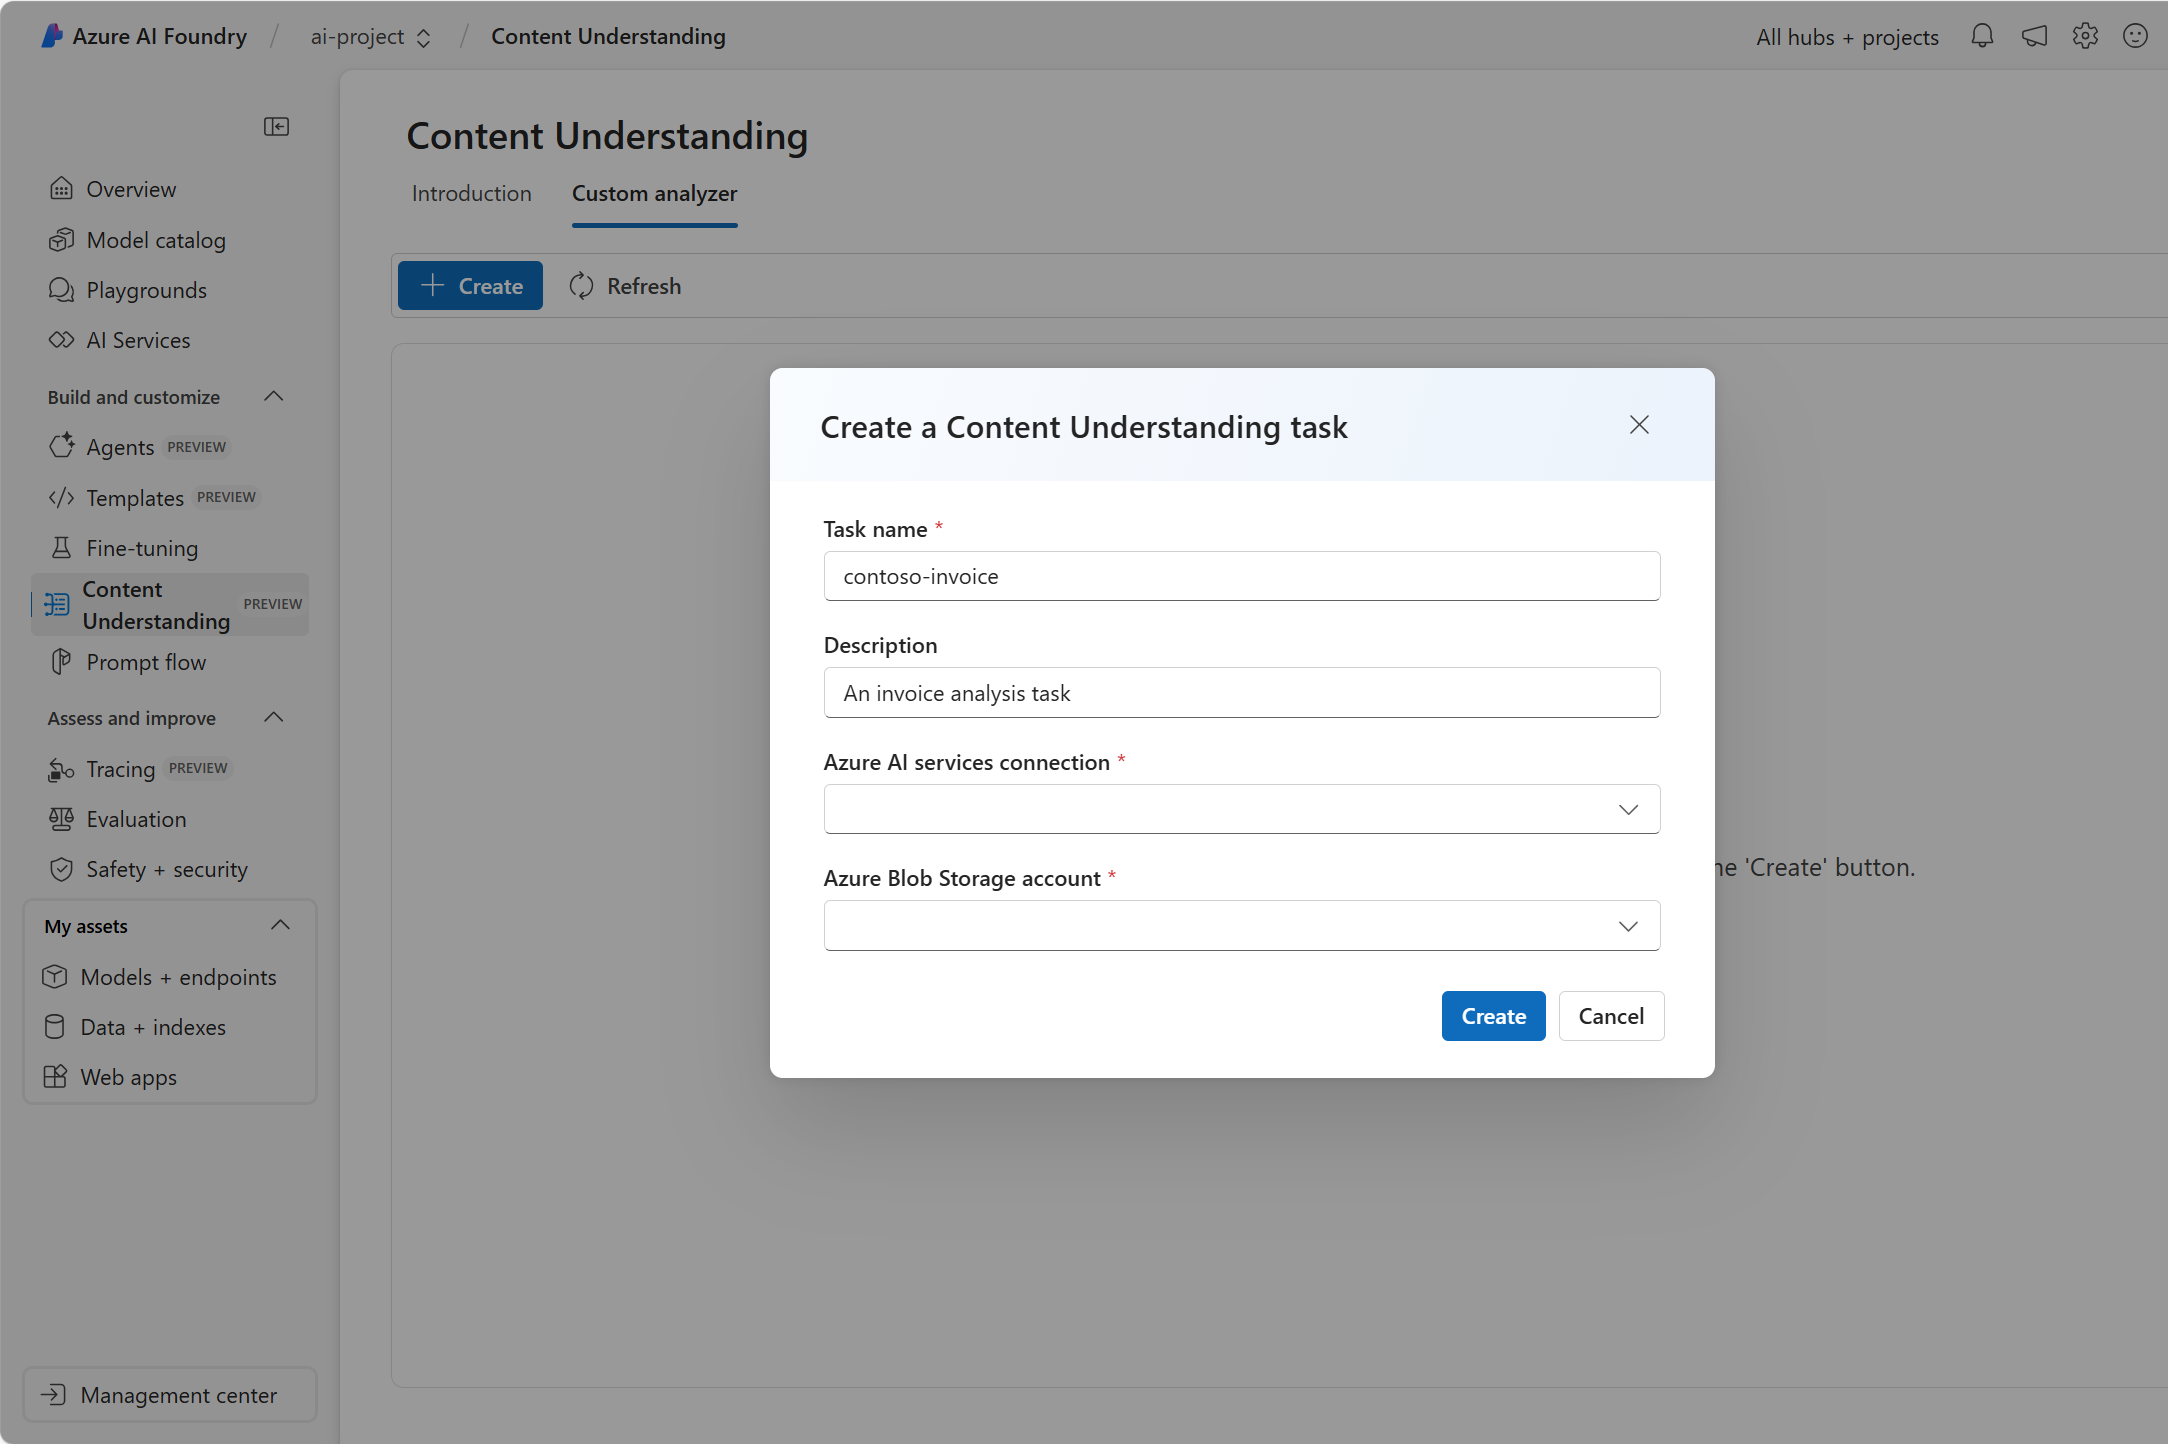
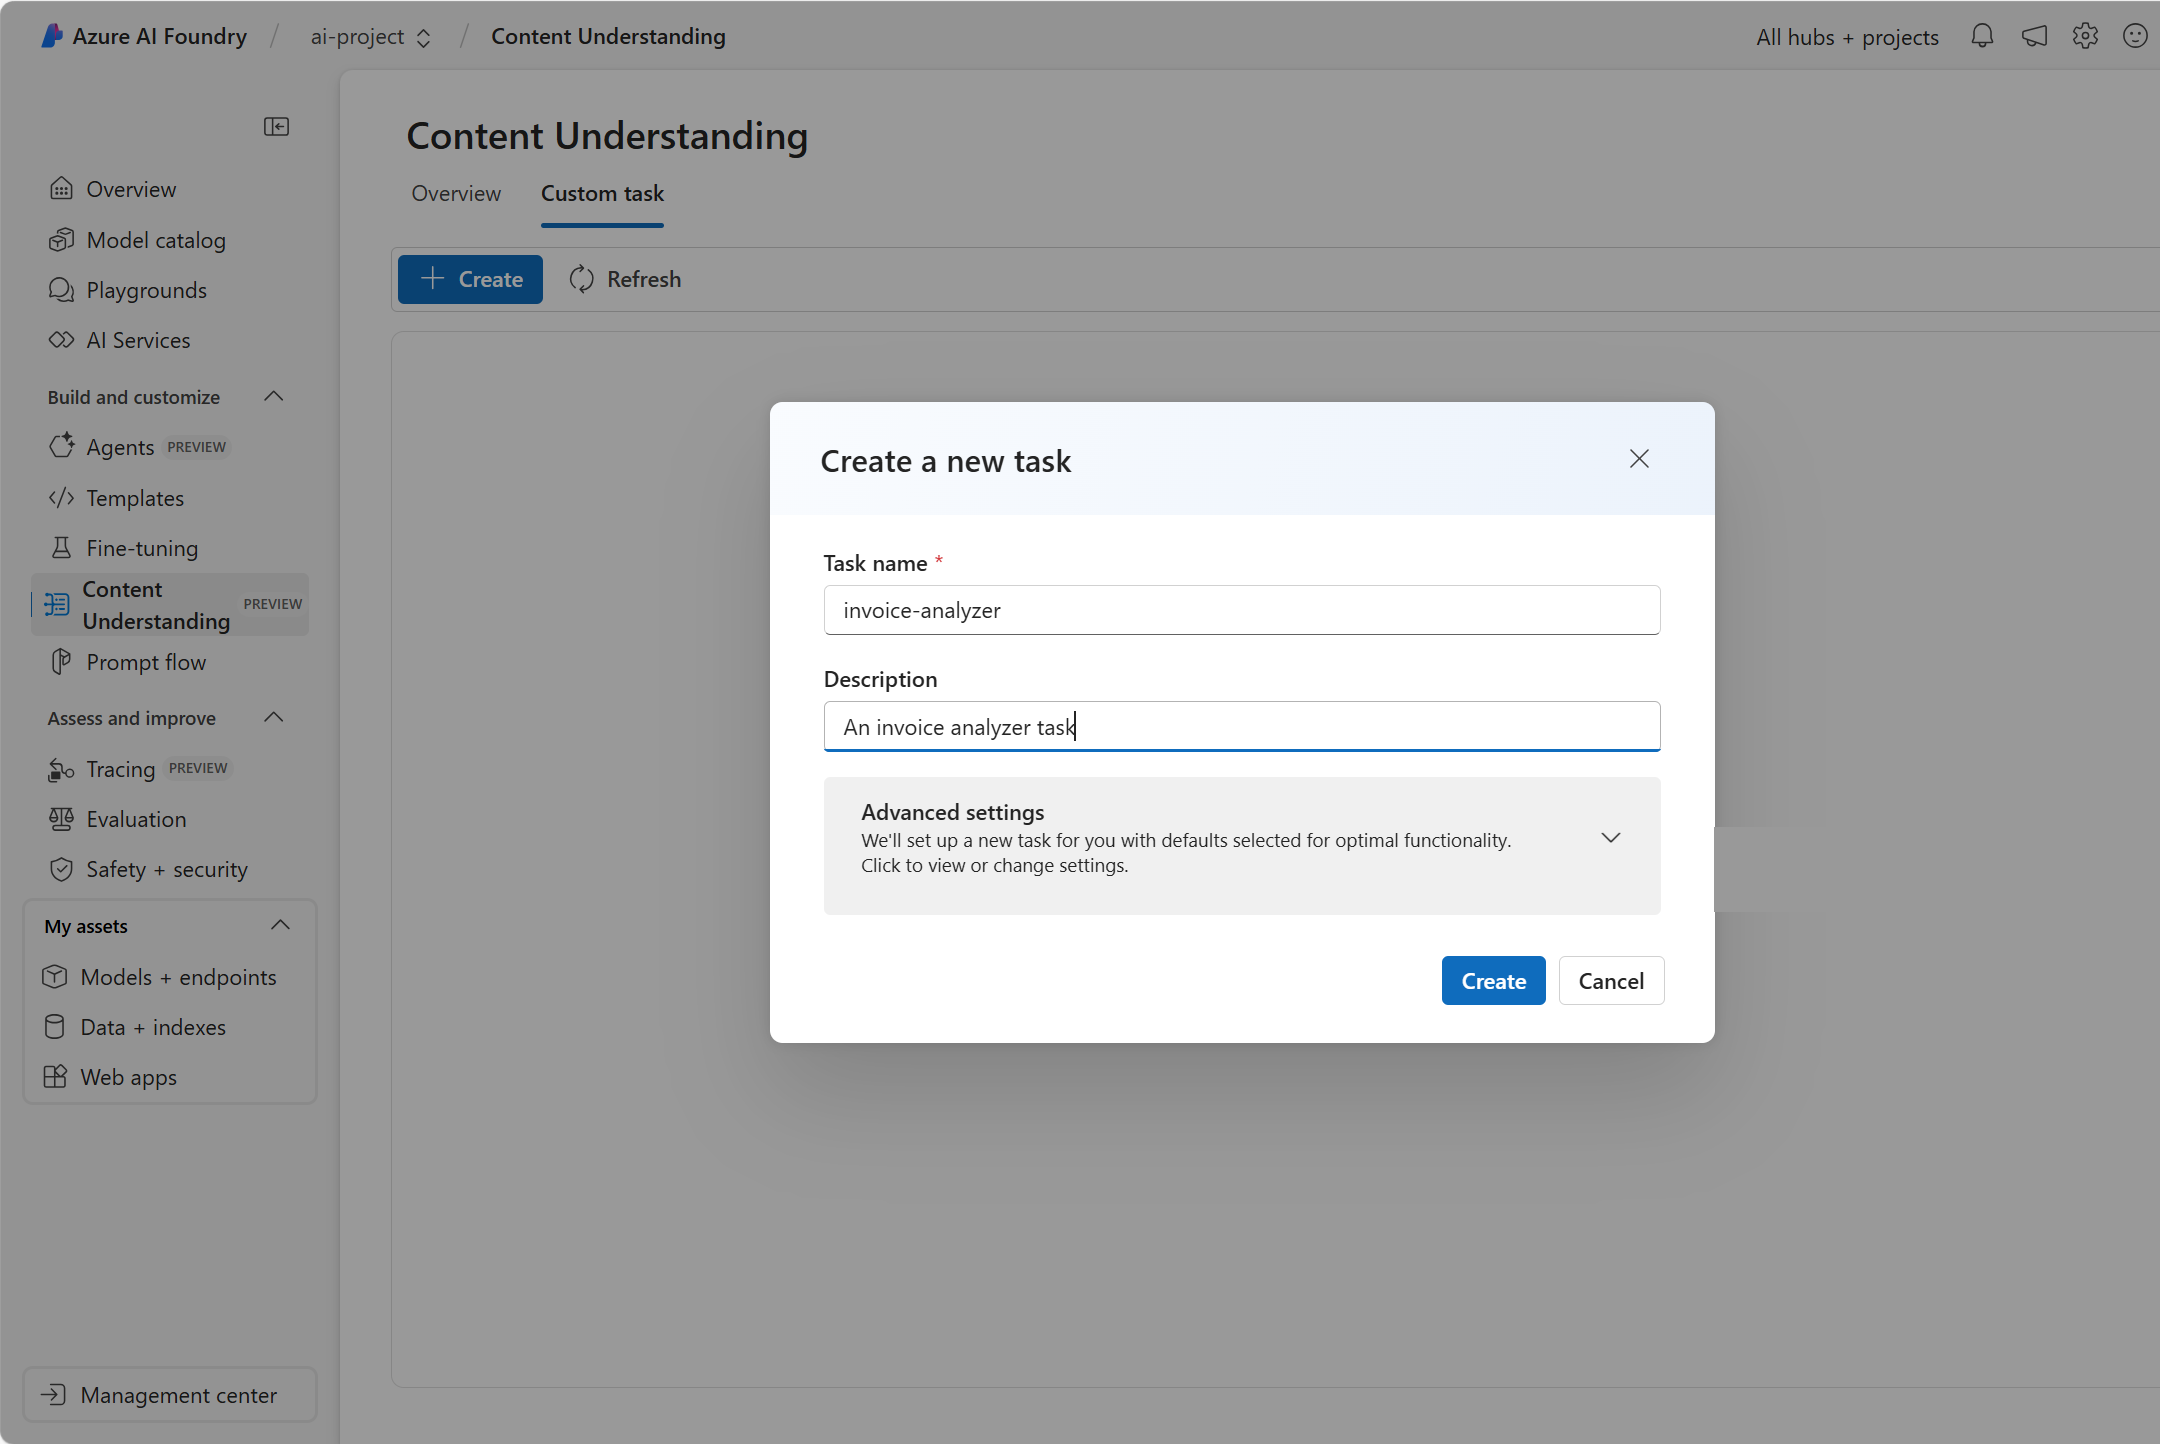
Update content understanding.

diff --git a/Instructions/Exercises/06-content-understanding.md b/Instructions/Exercises/06-content-understanding.md
@@ -52,8 +52,7 @@ Suppose you want to extract data from many invoices and put the data into a data
 1. Select **+ Create** and use the following settings to create a content understanding task:
     - **Task name**: contoso-invoice
     - **Description**: An invoice analysis task
-    - **Azure AI services connection**: *Use the default*
-    - **Azure Blob Storage account**: *Use the default*
+    - **Advanced settings**: *keep the default*
 
 1. Select **Create**, then wait for your task to be created. 
 1. Select your **contoso-invoice** task. 
